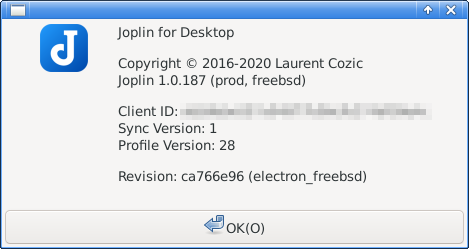
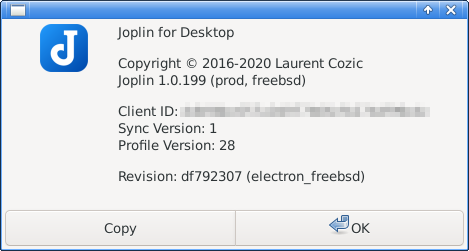
Update target Joplin version to 1.0.199 and add some notes

diff --git a/playing-with-bsd/application/howto-use-joplin-on-freebsd/index.html b/playing-with-bsd/application/howto-use-joplin-on-freebsd/index.html
@@ -8,12 +8,12 @@
   <meta name="twitter:title" content="How to use Joplin desktop app on FreeBSD - genneko" />
   <meta name="description" content="This is a quick note on how I build and use the latest Joplin desktop app on FreeBSD.
 For my initial exploration of Joplin on FreeBSD, please refer to the previous post.
-Target Version The current target version of this article is Joplin Electron release v1.0.187 (Mar 2020). Building Joplin I take the following steps to build Joplin desktop on my FreeBSD 12.1-RELEASE system (with XFCE4 desktop).
-  Install dependencies such as Electron and Nodejs.">
+Target Version The current target version of this article is Joplin Electron release v1.0.199 (Apr 2020).
+I confirmed that the app could be built using my fork at the tag freebsd-20200412. Building Joplin I take the following steps to build Joplin desktop on my FreeBSD 12.">
   <meta property="og:description" content="This is a quick note on how I build and use the latest Joplin desktop app on FreeBSD.
 For my initial exploration of Joplin on FreeBSD, please refer to the previous post.
-Target Version The current target version of this article is Joplin Electron release v1.0.187 (Mar 2020). Building Joplin I take the following steps to build Joplin desktop on my FreeBSD 12.1-RELEASE system (with XFCE4 desktop).
-  Install dependencies such as Electron and Nodejs.">
+Target Version The current target version of this article is Joplin Electron release v1.0.199 (Apr 2020).
+I confirmed that the app could be built using my fork at the tag freebsd-20200412. Building Joplin I take the following steps to build Joplin desktop on my FreeBSD 12.">
   <meta name="twitter:description" content="This is a quick note on how I build and use the latest Joplin desktop app on FreeBSD.
 For my initial exploration of Joplin on FreeBSD, please refer to the previous post.
 Target Version The current …">
@@ -60,7 +60,7 @@ Target Version The current …">
       <ul class="article-meta">
         <li class="article-meta-date"><time>2020-01-15</time>
         
-        <span class="updated">Update: 2020-03-28</span>
+        <span class="updated">Update: 2020-04-12</span>
         
         </li>
         <li class="article-meta-tags">
@@ -103,29 +103,26 @@ Target Version The current …">
       <p>This is a quick note on how I build and use the latest Joplin desktop app on FreeBSD.</p>
 <p>For my initial exploration of Joplin on FreeBSD, please refer to the <a href="https://genneko.github.io/playing-with-bsd/application/joplin-on-freebsd">previous post</a>.</p>
 <h2 id="target-version">Target Version</h2>
-<p>The current target version of this article is Joplin Electron release v1.0.187 (Mar 2020).
+<p>The current target version of this article is Joplin Electron release v1.0.199 (Apr 2020).<br>
+I confirmed that the app could be built using my fork at the tag <a href="https://github.com/genneko/joplin/releases/tag/freebsd-20200412">freebsd-20200412</a>.
 <img src="https://genneko.github.io/images/howto-use-joplin-on-freebsd/JoplinVersion.png" alt="Joplin Version"></p>
 <h2 id="building-joplin">Building Joplin</h2>
 <p>I take the following steps to build Joplin desktop on my FreeBSD 12.1-RELEASE system (with XFCE4 desktop).</p>
 <ol>
 <li>
 <p>Install dependencies such as Electron and Nodejs.<br>
-The latest Joplin requires Electron7 but it&rsquo;s not yet officially available in the FreeBSD ports tree.<br>
-So I downloaded and installed the latest Electron7 package from the following pre-official GitHub repository.<br>
-<a href="https://github.com/tagattie/FreeBSD-Electron/releases">https://github.com/tagattie/FreeBSD-Electron/releases</a></p>
-<pre><code>cd ~/Downloads
-fetch https://github.com/tagattie/FreeBSD-Electron/releases/download/v7.1.11/electron7-7.1.11-freebsd12-amd64.txz
-sudo pkg install electron7-7.1.11-freebsd12-amd64.txz
-</code></pre><p>Then I created symbolic links for compatibility.</p>
+Now all dependencies can be installed from the FreeBSD&rsquo;s official packages.</p>
+<pre><code>sudo pkg install electron7 node12 npm-node12 python vips
+</code></pre><blockquote>
+<p><strong>NOTE</strong><br>
+As the electron7 port is pretty new, you might have to switch the package repository from &lsquo;quarterly&rsquo; to &lsquo;latest&rsquo; to install electron7.<br>
+Please refer to the <a href="https://www.freebsd.org/doc/handbook/pkgng-intro.html#quarterly-latest-branch">relevant section</a> of the FreeBSD Handbook.</p>
+</blockquote>
+<p>Then I created symbolic links for compatibility.</p>
 <pre><code>cd /usr/local/bin
 sudo ln -s electron7 electron
 cd /usr/local/share
 sudo ln -s electron7 electron
-</code></pre><blockquote>
-<p>I had continued to use electron6 for a while even after Joplin switched to electron7, but it looked like the app ceased working correctly on v1.0.179 or later versions so I finally moved to electron7.</p>
-</blockquote>
-<p>Other dependencies can be installed from the FreeBSD&rsquo;s official packages.</p>
-<pre><code>sudo pkg install node10 npm-node10 python vips
 </code></pre></li>
 <li>
 <p>Clone my forked version of Joplin and switch to electron_freebsd branch, which includes some modifications for FreeBSD.</p>
@@ -133,7 +130,13 @@ sudo ln -s electron7 electron
 git clone https://github.com/genneko/joplin.git
 cd joplin
 git checkout electron_freebsd
-</code></pre></li>
+</code></pre><blockquote>
+<p><strong>NOTE</strong><br>
+If the head of the branch cannot be built (it occurs from time to time), please try the tagged version which I confirmed to be built.<br>
+As of 12 April 2020, the latest confirmed tag is <a href="https://github.com/genneko/joplin/releases/tag/freebsd-20200412">freebsd-20200412</a> and it can be checked out as follows:</p>
+<pre><code>git checkout freebsd-20200412
+</code></pre></blockquote>
+</li>
 <li>
 <p>Build the desktop (Electron) application by mostly following the <a href="https://github.com/laurent22/joplin/blob/master/BUILD.md#building-the-electron-application">original build instruction</a>.</p>
 <pre><code>npm install
@@ -237,6 +240,7 @@ I changed selector from &lsquo;.ace_editor&rsquo; to &lsquo;div.ace_editor&rsquo
 <li>2020-03-04: Updated the target version to 1.0.187</li>
 <li>2020-03-25: Add a note on Windows file path</li>
 <li>2020-03-28: Add a note on restarting Joplin after editing the custom stylesheet.</li>
+<li>2020-04-12: Updated the target version to 1.0.199 and add a few notes</li>
 </ul>
 <section class="footnotes" role="doc-endnotes">
 <hr>

diff --git a/playing-with-bsd/index.html b/playing-with-bsd/index.html
@@ -112,7 +112,7 @@ Assumptions  The host is a graphical desktop workstation running FreeBSD 12.
         <ul class="article-meta">
           <li class="article-meta-date"><time>2020-01-15</time>
           
-          <span class="updated">Update: 2020-03-28</span>
+          <span class="updated">Update: 2020-04-12</span>
           
           </li>
           <li class="article-meta-tags">
@@ -143,8 +143,8 @@ Assumptions  The host is a graphical desktop workstation running FreeBSD 12.
         <div class="article-content">
           This is a quick note on how I build and use the latest Joplin desktop app on FreeBSD.
 For my initial exploration of Joplin on FreeBSD, please refer to the previous post.
-Target Version The current target version of this article is Joplin Electron release v1.0.187 (Mar 2020). Building Joplin I take the following steps to build Joplin desktop on my FreeBSD 12.1-RELEASE system (with XFCE4 desktop).
-  Install dependencies such as Electron and Nodejs.
+Target Version The current target version of this article is Joplin Electron release v1.0.199 (Apr 2020).
+I confirmed that the app could be built using my fork at the tag freebsd-20200412. Building Joplin I take the following steps to build Joplin desktop on my FreeBSD 12.
         </div>
         <div class="article-readmore"><a href="https://genneko.github.io/playing-with-bsd/application/howto-use-joplin-on-freebsd/">Read more...</a></div>
         <div class="article-floatclear"></div>

diff --git a/tags/application/index.html b/tags/application/index.html
@@ -104,7 +104,7 @@ Assumptions  The host is a graphical desktop workstation running FreeBSD 12.
         <ul class="article-meta">
           <li class="article-meta-date"><time>2020-01-15</time>
           
-          <span class="updated">Update: 2020-03-28</span>
+          <span class="updated">Update: 2020-04-12</span>
           
           </li>
           <li class="article-meta-tags">
@@ -135,8 +135,8 @@ Assumptions  The host is a graphical desktop workstation running FreeBSD 12.
         <div class="article-content">
           This is a quick note on how I build and use the latest Joplin desktop app on FreeBSD.
 For my initial exploration of Joplin on FreeBSD, please refer to the previous post.
-Target Version The current target version of this article is Joplin Electron release v1.0.187 (Mar 2020). Building Joplin I take the following steps to build Joplin desktop on my FreeBSD 12.1-RELEASE system (with XFCE4 desktop).
-  Install dependencies such as Electron and Nodejs.
+Target Version The current target version of this article is Joplin Electron release v1.0.199 (Apr 2020).
+I confirmed that the app could be built using my fork at the tag freebsd-20200412. Building Joplin I take the following steps to build Joplin desktop on my FreeBSD 12.
         </div>
         <div class="article-readmore"><a href="https://genneko.github.io/playing-with-bsd/application/howto-use-joplin-on-freebsd/">Read more...</a></div>
         <div class="article-floatclear"></div>

diff --git a/tags/freebsd/index.html b/tags/freebsd/index.html
@@ -104,7 +104,7 @@ Assumptions  The host is a graphical desktop workstation running FreeBSD 12.
         <ul class="article-meta">
           <li class="article-meta-date"><time>2020-01-15</time>
           
-          <span class="updated">Update: 2020-03-28</span>
+          <span class="updated">Update: 2020-04-12</span>
           
           </li>
           <li class="article-meta-tags">
@@ -135,8 +135,8 @@ Assumptions  The host is a graphical desktop workstation running FreeBSD 12.
         <div class="article-content">
           This is a quick note on how I build and use the latest Joplin desktop app on FreeBSD.
 For my initial exploration of Joplin on FreeBSD, please refer to the previous post.
-Target Version The current target version of this article is Joplin Electron release v1.0.187 (Mar 2020). Building Joplin I take the following steps to build Joplin desktop on my FreeBSD 12.1-RELEASE system (with XFCE4 desktop).
-  Install dependencies such as Electron and Nodejs.
+Target Version The current target version of this article is Joplin Electron release v1.0.199 (Apr 2020).
+I confirmed that the app could be built using my fork at the tag freebsd-20200412. Building Joplin I take the following steps to build Joplin desktop on my FreeBSD 12.
         </div>
         <div class="article-readmore"><a href="https://genneko.github.io/playing-with-bsd/application/howto-use-joplin-on-freebsd/">Read more...</a></div>
         <div class="article-floatclear"></div>

diff --git a/tags/font/index.html b/tags/font/index.html
@@ -54,7 +54,7 @@
         <ul class="article-meta">
           <li class="article-meta-date"><time>2020-01-15</time>
           
-          <span class="updated">Update: 2020-03-28</span>
+          <span class="updated">Update: 2020-04-12</span>
           
           </li>
           <li class="article-meta-tags">
@@ -85,8 +85,8 @@
         <div class="article-content">
           This is a quick note on how I build and use the latest Joplin desktop app on FreeBSD.
 For my initial exploration of Joplin on FreeBSD, please refer to the previous post.
-Target Version The current target version of this article is Joplin Electron release v1.0.187 (Mar 2020). Building Joplin I take the following steps to build Joplin desktop on my FreeBSD 12.1-RELEASE system (with XFCE4 desktop).
-  Install dependencies such as Electron and Nodejs.
+Target Version The current target version of this article is Joplin Electron release v1.0.199 (Apr 2020).
+I confirmed that the app could be built using my fork at the tag freebsd-20200412. Building Joplin I take the following steps to build Joplin desktop on my FreeBSD 12.
         </div>
         <div class="article-readmore"><a href="https://genneko.github.io/playing-with-bsd/application/howto-use-joplin-on-freebsd/">Read more...</a></div>
         <div class="article-floatclear"></div>

diff --git a/tags/installation/index.html b/tags/installation/index.html
@@ -54,7 +54,7 @@
         <ul class="article-meta">
           <li class="article-meta-date"><time>2020-01-15</time>
           
-          <span class="updated">Update: 2020-03-28</span>
+          <span class="updated">Update: 2020-04-12</span>
           
           </li>
           <li class="article-meta-tags">
@@ -85,8 +85,8 @@
         <div class="article-content">
           This is a quick note on how I build and use the latest Joplin desktop app on FreeBSD.
 For my initial exploration of Joplin on FreeBSD, please refer to the previous post.
-Target Version The current target version of this article is Joplin Electron release v1.0.187 (Mar 2020). Building Joplin I take the following steps to build Joplin desktop on my FreeBSD 12.1-RELEASE system (with XFCE4 desktop).
-  Install dependencies such as Electron and Nodejs.
+Target Version The current target version of this article is Joplin Electron release v1.0.199 (Apr 2020).
+I confirmed that the app could be built using my fork at the tag freebsd-20200412. Building Joplin I take the following steps to build Joplin desktop on my FreeBSD 12.
         </div>
         <div class="article-readmore"><a href="https://genneko.github.io/playing-with-bsd/application/howto-use-joplin-on-freebsd/">Read more...</a></div>
         <div class="article-floatclear"></div>

diff --git a/index.html b/index.html
@@ -60,7 +60,7 @@
               
               <li><time>2020-01-15</time> - <a href="https://genneko.github.io/playing-with-bsd/application/howto-use-joplin-on-freebsd/">How to use Joplin desktop app on FreeBSD</a>
                   
-                  <span class="updated">Update: 2020-03-28</span>
+                  <span class="updated">Update: 2020-04-12</span>
                   
               
               <li><time>2019-11-17</time> - <a href="https://genneko.github.io/playing-with-bsd/storage/expanding-zfs-on-geli/">Expanding a GELI-encrypted ZFS pool</a>
